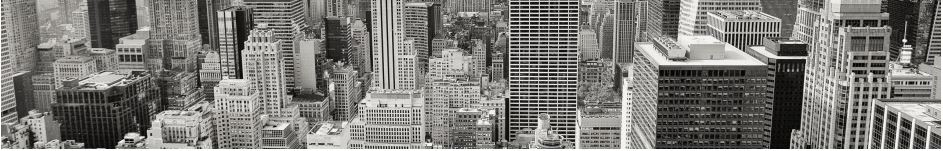
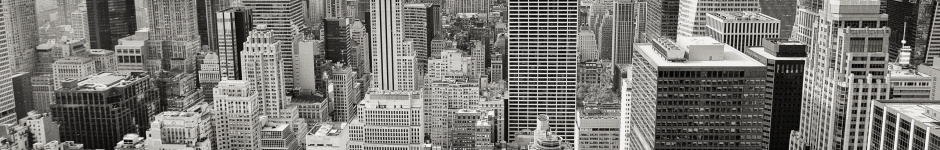
update

diff --git a/_layouts/default.html b/_layouts/default.html
@@ -16,7 +16,12 @@
     <span><p><strong>About</strong></p></span>
     <span><p>My name is Jeremy and this is my site.  </p></span>
     <span><p><strong>Latest Photos on Flickr</strong></p></span>
-<a data-flickr-embed="true"  href="https://www.flickr.com/photos/itwasalladream/albums/72157660926477809" title="Cinque Terre"><img src="https://farm1.staticflickr.com/743/21706037501_f6247b5e70_n.jpg" width="320" height="202" alt="Cinque Terre"></a><script async src="//embedr.flickr.com/assets/client-code.js" charset="utf-8"></script>
+    <a data-flickr-embed="true"  href="https://www.flickr.com/photos/itwasalladream/albums/72157660926477809" title="Cinque Terre"><img src="https://farm1.staticflickr.com/743/21706037501_f6247b5e70_n.jpg" width="320" height="202" alt="Cinque Terre"></a><script async src="//embedr.flickr.com/assets/client-code.js" charset="utf-8"></script>
+
+    <a class="twitter-timeline" data-width="320" data-height="500" href="https://twitter.com/lavidajer?ref_src=twsrc%5Etfw"><span><p><strong>Tweets by lavidajer</strong></p></span></a>
+     <script async src="https://platform.twitter.com/widgets.js" charset="utf-8"></script>
+
+
 
   </div>
   <div style="clear:both;"></div>

diff --git a/assets/css/_sass/_home.scss b/assets/css/_sass/_home.scss
@@ -1,7 +1,8 @@
 .featured-posts {
   height: 100px;
-  margin: 5px 20px 10px;
-  padding: 10px;
+  /*margin: 5px 20px 10px;*/
+  margin: 20px 0 20px 0;
+  /*padding: 10px;*/
   background-position: center;
   background-repeat: no-repeat;
   width:500px;
@@ -13,13 +14,15 @@
    font: bold 12px/24px Helvetica, Sans-Serif;
    letter-spacing: -0.5px;
    background: rgb(0, 0, 0); /* fallback color */
-   background: rgba(0, 0, 0, 0.7);
-   padding: 10px;
+   background: rgba(0, 0, 0, 0.3);
+   padding: 2px;
   /* margin-top: 20px;*/
 }
-
+.featured-posts h2{
+  text-align:right;
+}
 .featured-posts span a {
-  color: white;
+  color: rgba(255, 255, 255, .3);
 }
 .featured-posts h1 {
   margin: 10px;
@@ -41,14 +44,22 @@ article p{
 }
 
 .rightCont{
-  padding:10px;
+  padding-top:20px;
   margin:auto;
-  padding-left:170px;
+  padding-left:100px;
   width:300px;
   float:left;
 
   height:auto;
 
+}
+
+.rightCont strong{
+  color: #aaa;
+    font-size: 1em;
+    letter-spacing: 1px;
+    text-transform: uppercase;
+    word-spacing: 2px;
 }
 .post-date{
   color:#bbb;

diff --git a/assets/css/_sass/_header.scss b/assets/css/_sass/_header.scss
@@ -1,7 +1,7 @@
 .site-header {
   min-height: 56px;
   width: $container-width;
-  position: fixed;
+  /*position: fixed;*/
   background-color: white;
   box-shadow: 0 5px 6px -6px #bbb;
 }
@@ -9,7 +9,7 @@
   .site-header {
       min-height: 56px;
       width: 95vw;
-      position: fixed;
+      /*position: fixed;*/
       background-color: white;
       box-shadow: 0 5px 6px -6px #bbb;
   }
@@ -23,8 +23,8 @@
   line-height: 56px;
   margin-bottom: 0;
   font-weight: 400;
-line-height: 56px;
-  font-family:'Abel', 'Helvetica Neue', Helvetica, Arial, sans-serif;
+  line-height: 56px;
+  font-family:'Abel',  Helvetica, Arial, sans-serif;
   padding-left: 10px;
   float: left;
 }

diff --git a/_includes/header.html b/_includes/header.html
@@ -24,4 +24,4 @@
     </div>
   </div>
 </header>
-<img src="/assets/img/header.jpg" width="1080" style="max-width:1080px">
+<img src="/assets/img/header.jpg" width="940"  style="max-width:940px;padding-top:16px;">

diff --git a/assets/css/_sass/_base.scss b/assets/css/_sass/_base.scss
@@ -45,6 +45,8 @@ a.menu-link{
     color:#0da4d3;
     transition: all 0.18s ease-out;
     text-decoration:none;
+
+    text-transform: lowercase;
 }
 a.menu-link:focus{
 

diff --git a/assets/css/main.scss b/assets/css/main.scss
@@ -12,7 +12,7 @@ $body-font-family: Georgia, serif;
 
 $brand-color: black;
 
-$container-width: 1100px;
+$container-width: 940px;
 
 $tablet-width: 600px;
 

diff --git a/_layouts/post.html b/_layouts/post.html
@@ -1,5 +1,5 @@
 ---
-layout: default
+layout: pagedefault
 ---
 
 <div class="page-content">

diff --git a/pages/about.md b/pages/about.md
@@ -9,4 +9,4 @@ I get to dig through large sets of data to glean insights that would otherwise b
 
 Education wise, I received my BA in Economics from the University of Iowa, and then an MS in Management of Information Systems from the University of Illinois-Springfield.
 
-I most recently spent two years in London
+I most recently spent two years in London working in the hospitality industry, looking after the digital performance of a group of hotels in London, Amsterdam and Paris.  I currently live in Chicago working on building analytics programs for clients in the financial services industry.
